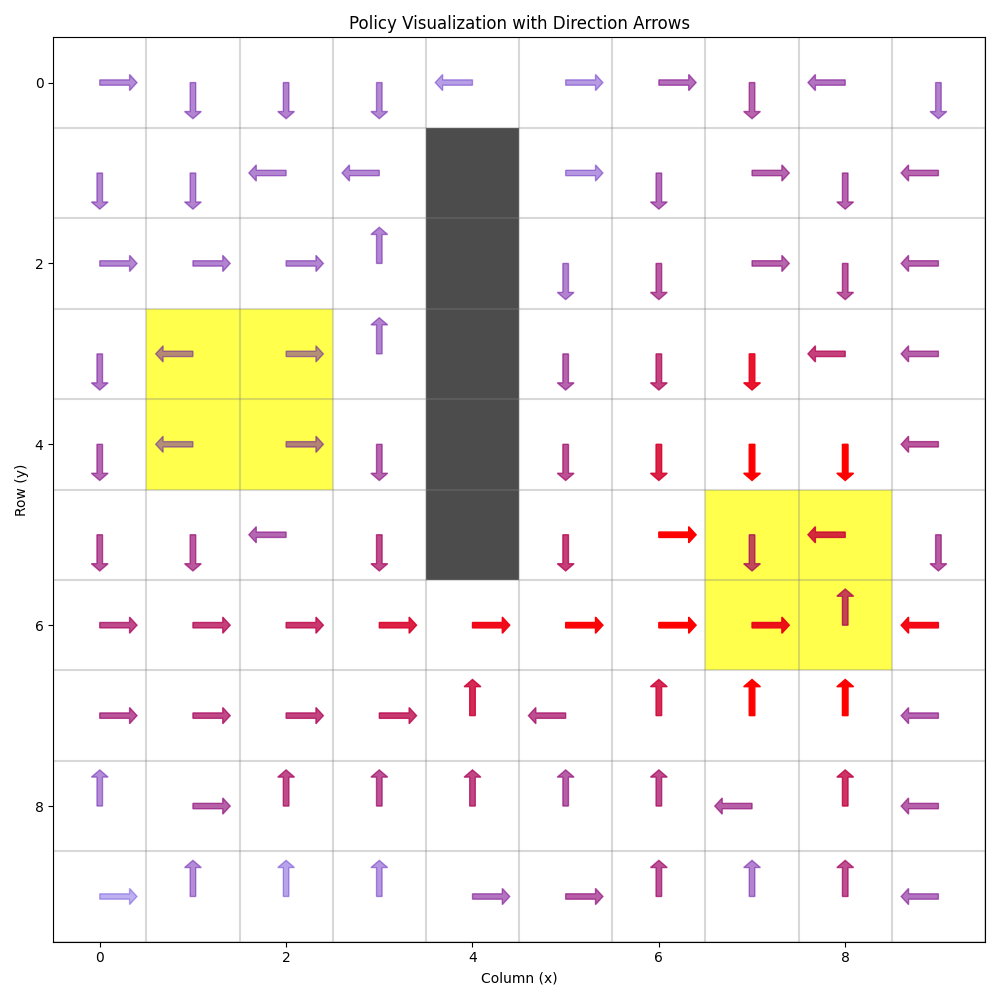
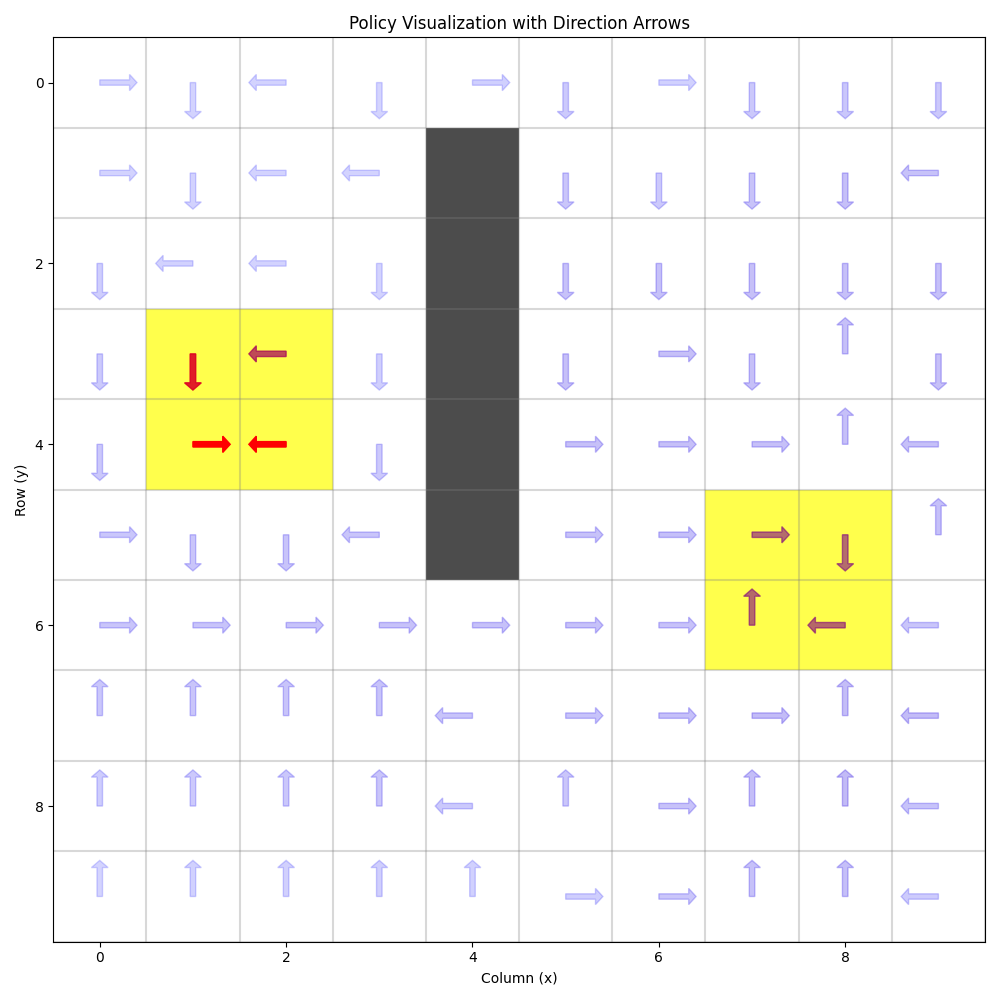
goal agnostic training loop

diff --git a/project/boolean_task.py b/project/boolean_task.py
@@ -17,20 +17,13 @@ class GoalOrientedBase:
         self.env = room
         self.learning_rate = learning_rate
         self.gamma = gamma
-        self.epsilon = 0.5
         self.r_min = r_min
-        self.G = [set() for _ in range(len(room.goals))] 
-        self.goal_regions = []
-        self.goal_ids = []
-        for goal_id, goal_region in room.goals.items():
-            if goal_region.any():
-                self.goal_ids.append(goal_id)
-                self.goal_regions.append(goal_region)
-        print(self.goal_ids)
+        self.G = set()
+        self.epsilon = 0.5
+        self.decay_rate = 0.99
 
-
-    def _random_condition(self, goal_id):
-        return not self.G[goal_id] or random.random() < self.epsilon
+    def _random_condition(self):
+        return not self.G or random.random() < self.epsilon
     
     def _train(self, *args):
         raise NotImplementedError()
@@ -38,52 +31,60 @@ class GoalOrientedBase:
     def _save_progress(self):
         pass
     
-    def _get_all_goals(self):
-        all_goals = set()
-        for g in self.G:
-            all_goals.update(g)
-        return all_goals
-    
     def _add_goal(self, state):
-        state = tuple(state.numpy())
-        if state not in self._get_all_goals():
-            for i, goal_region in enumerate(self.goal_regions):
-                if goal_region[state[0], state[1]]:
-                    self.G[i].add((state[0], state[1]))
+        self.G.add(tuple(state.numpy()))
 
+    def _remove_goal(self):
+        goals = list(self.G)
+        hidden_goals = []
+        if self.mis_coverage_terrain is not None:
+            i = 0
+            while i < len(goals):
+                if not self.mis_coverage_terrain[goals[i][0], goals[i][1]]:
+                    hidden_goals.append(goals.pop(i))
+                else:
+                    i += 1
+        return goals, hidden_goals
+    
     def select_action(self, *args):
         raise NotImplementedError()
 
-    def train_episodes(self, num_iterations=10, num_episodes=1000, max_steps_per_episode=100, fn=""):
+    def train_episodes(self, num_episodes=1000, max_steps_per_episode=100, fn=""):
         """Train the agent using Goal-Oriented Q-Learning."""
-        self.epsilon = 0.1
-        for iteration in range(num_iterations):
-            for goal_id in random.sample(range(len(self.goal_ids)), len(self.goal_ids)):
-                gmask = self.goal_regions[goal_id]
-                for episode in range(num_episodes):
-                    # Initialize state
-                    state = self.env.start()
-                    steps = 0
-                    
-                    while steps < max_steps_per_episode:
-                        action = self.select_action(state, goal_id)
-                        next_state, reward, done = self.env.step(action)
-                        # Update Q-values for each subgoal
-                        if done > 0:
-                            # Add the current state to the set of subgoals
-                            self._add_goal(next_state)
-                        if self.G[goal_id]:
-                            self._train(state, action, reward, next_state, done, goal_id)
-                        
-                        state = next_state
-                        steps += 1
+        epsilon = self.epsilon
+        for episode in range(num_episodes):
+            # Initialize state
+            state = self.env.start()
+            mis_coverage_terrain = []
+            for goal_id, gmask in self.env.goals.items():
+                if gmask.any() and not gmask[state[0], state[1]]:
+                    mis_coverage_terrain.append(gmask)
+            mis_coverage_terrain = torch.stack(mis_coverage_terrain).max(0).values if mis_coverage_terrain else None
+            self.mis_coverage_terrain = mis_coverage_terrain
+            steps = 0
+            
+            while steps < max_steps_per_episode:
+                action = self.select_action(state)
+                next_state, reward, done = self.env.step(action)
 
-                        if gmask[next_state[0], next_state[1]]:
-                            break   # Reach goal eventually, no need to continue (mask goal reached)
-                    # self.epsilon = max(0.05, self.epsilon*0.99) # decay epsilon
+                if mis_coverage_terrain is not None and done > 0 and not mis_coverage_terrain[next_state[0], next_state[1]]:
+                    self._add_goal(next_state)
+                    done = 0
+
+                # Update Q-values for each subgoal
+                if self.G:
+                    self._train(state, action, reward, next_state, done)
+                if done > 0:
+                    # Add the current state to the set of subgoals
+                    self._add_goal(next_state)
+                    break
+                
+                state = next_state
+                steps += 1
+            if episode % 100 == 0:
+                print(f"Episode {episode} completed with {len(self.G)} goals steps {steps}/{max_steps_per_episode} why {done}")
                     
-            print(f"Iteration {iteration}, gnames: {goal_id}, num goals {[len(g) for g in self.G]}")
-            # self._save_progress()
+        self.epsilon = epsilon
     
     def q_compose(self, mask):
         pass
@@ -97,56 +98,45 @@ class GoalOrientedQLearning(GoalOrientedBase):
         # State is (x, y), subgoal is (x, y)
         self.Q = torch.zeros(room.shape+room.shape+(room.n_actions,)) if not pretrained else torch.load(f"project/static/goal-q.pt")
     
-    def _train(self, state, action, reward, next_state, done, goal_id):
+    def _train(self, state, action, reward, next_state, done):
         """Get Q-value for a state-subgoal-action triple."""
-        goals = torch.IntTensor(list(self._get_all_goals()))
-        sx, sy = tuple(state[i].expand(goals.shape[0]) for i in range(2))
-        action = torch.IntTensor([action]).expand(goals.shape[0])
-        nx, ny = tuple(next_state[i].expand(goals.shape[0]) for i in range(2))
+        goal_tensor = torch.IntTensor(list(self.G))
+        sx, sy = tuple(state[i].expand(goal_tensor.shape[0]) for i in range(2))
+        action = torch.IntTensor([action]).expand(goal_tensor.shape[0])
+        nx, ny = tuple(next_state[i].expand(goal_tensor.shape[0]) for i in range(2))
+        current_q = self.Q[sx, sy, goal_tensor[:, 0], goal_tensor[:, 1], action]
 
-        sub_q = self.Q[sx, sy, goals[:, 0], goals[:, 1], action]
-
-        def nongoal_update(r):
-            mask_goals = torch.IntTensor(list(self.G[goal_id]))
-            nx, ny = tuple(next_state[i].expand(mask_goals.shape[0]) for i in range(2))
-            max_next_q = torch.max(self.Q[nx, ny, mask_goals[:, 0], mask_goals[:, 1]])
-            delta = r + self.gamma * max_next_q - sub_q
-            return delta
-        
         if done > 0:
-            goal_eq = -1
-            for i in range(goals.shape[0]):
-                if torch.equal(next_state, goals[i]):
-                    goal_eq = i
+            for i in range(goal_tensor.shape[0]):
+                if torch.equal(next_state, goal_tensor[i]):
+                    goal_non_eq = list(range(i))+list(range(i+1, goal_tensor.shape[0]))
                     break
-            if goal_eq < 0:
-                raise ValueError("No goal reached during training, error in goal identification")
-            if tuple(next_state.numpy()) in self.G[goal_id]:
-                delta = reward - sub_q
-                goal_neq = list(range(goals.shape[0]))
-                goal_neq.remove(goal_eq)
-                delta[goal_neq] = self.r_min
             else:
-                delta = torch.zeros_like(sub_q)
-                delta[goal_eq] = reward - sub_q[goal_eq]
+                goal_non_eq = list(range(goal_tensor.shape[0]))
+            
+            delta = reward - current_q
+            delta[goal_non_eq] = self.r_min
         else:
-            delta = nongoal_update(reward)
-
-        new_q = sub_q + self.learning_rate * delta
-        self.Q[sx, sy, goals[:, 0], goals[:, 1], action] = new_q
+            next_q = self.Q[nx, ny, goal_tensor[:, 0], goal_tensor[:, 1]]
+            max_next_q = next_q.max(1).values
+            delta = reward + self.gamma * max_next_q - current_q
+            
+        new_q = current_q + self.learning_rate * delta
+        self.Q[sx, sy, goal_tensor[:, 0], goal_tensor[:, 1], action] = new_q
 
     def _save_progress(self):
         torch.save(self.Q, f"project/static/goal-q.pt")
         torch.save(self.G, f"project/static/subgoals.pt")
     
-    def select_action(self, state, goal_id):
+    def select_action(self, state):
         '''Select the best action based on currently explored goals'''
-        if self._random_condition(goal_id):
+        if self._random_condition():
             return random.choice(self.actions)
          # Choose the best action based on current goals
-        goals = torch.IntTensor(list(self.G[goal_id]))
-        sx, sy = tuple(state[i].expand(goals.shape[0]) for i in range(2))
-        qs = self.Q[sx, sy, goals[:, 0], goals[:, 1]]
+        visible_goals, _ = self._remove_goal()
+        goal_tensor = torch.IntTensor(visible_goals)
+        sx, sy = tuple(state[i].expand(goal_tensor.shape[0]) for i in range(2))
+        qs = self.Q[sx, sy, goal_tensor[:, 0], goal_tensor[:, 1]]
         max_av = torch.max(qs, 0).values
         action_values = {}
         for a in self.actions:

diff --git a/project/learning.py b/project/learning.py
@@ -188,9 +188,10 @@ if __name__ == "__main__":
     room = load_room("saved_disc", "1room.pt", 4)
     if 'starting' in room.goals:
         starting = room.goals.pop('starting')
+    print(room.goals.keys())
     room.start()
     goal_learner = GoalOrientedQLearning(room)
-    goal_learner.train_episodes(num_iterations=10, num_episodes=100, max_steps_per_episode=150)
+    goal_learner.train_episodes()
 
     at = AtomicTask("F(goal_2)", room)
     # at = AtomicTask("F goal_2", room)
